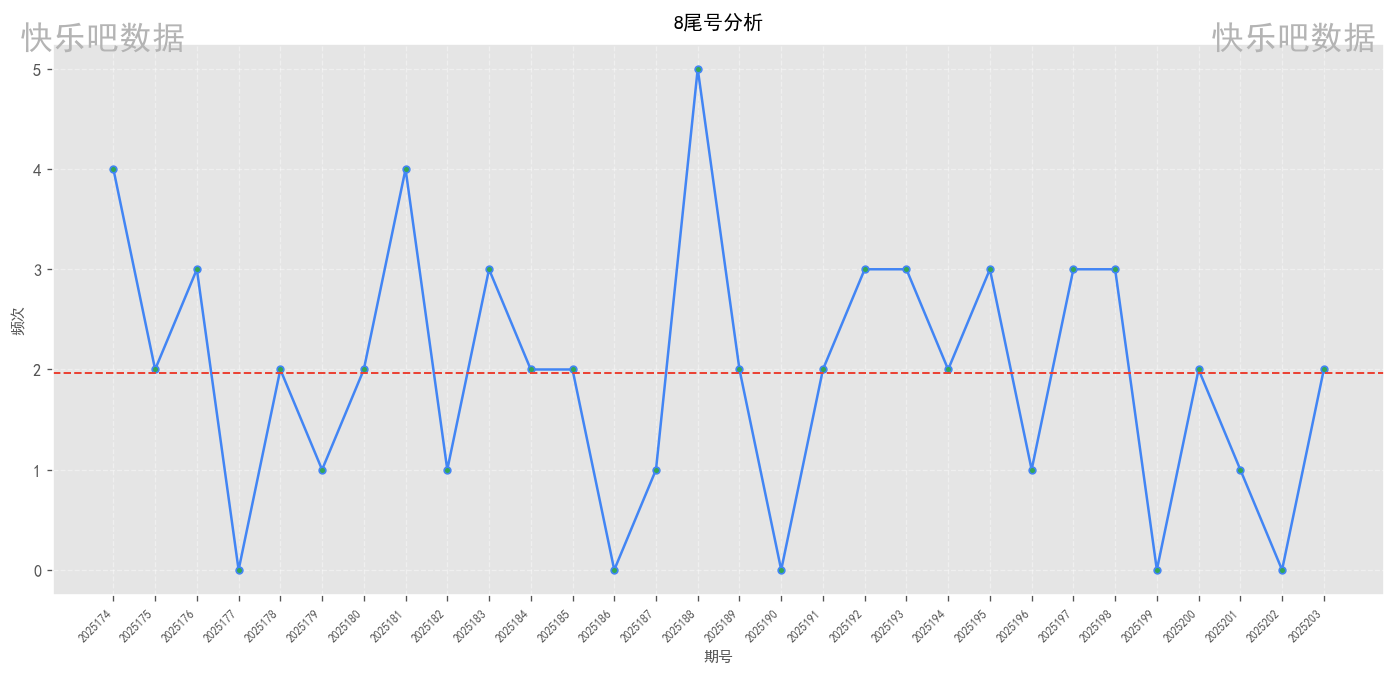
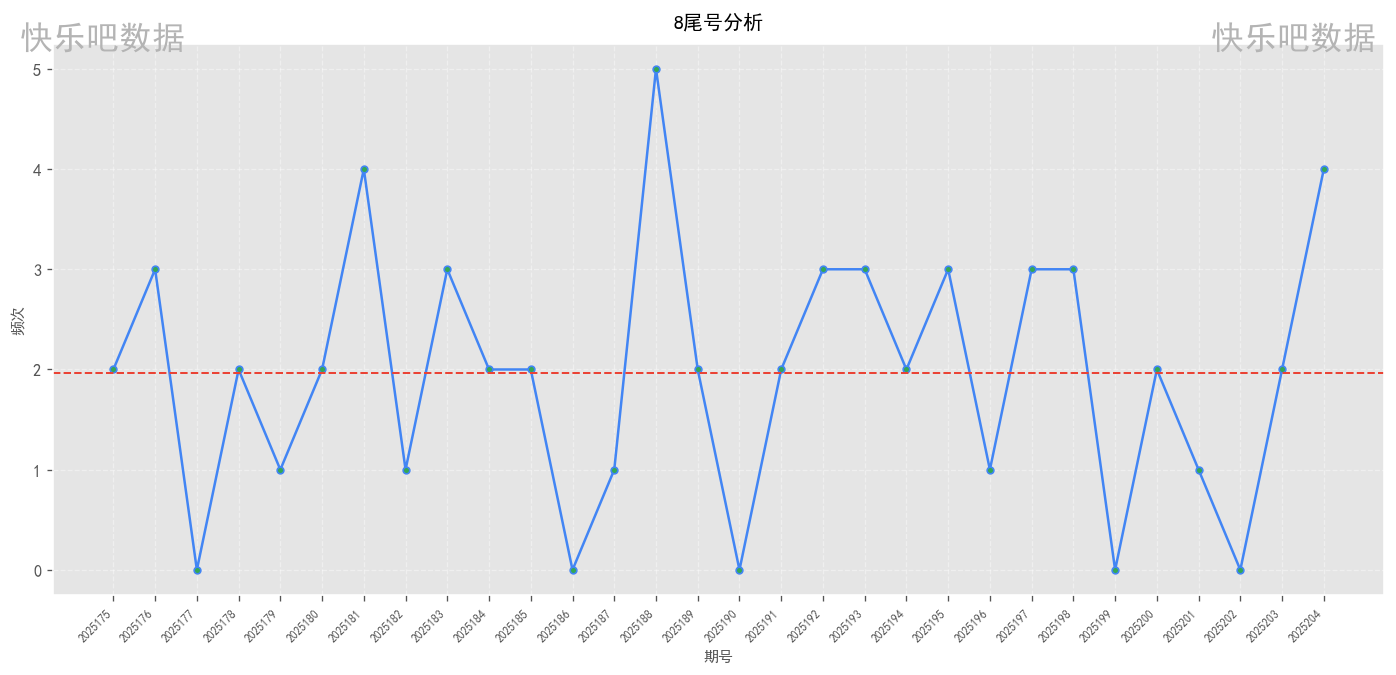
自动提交报告 20250802_2239

diff --git a/快乐8尾号分析项目/数据报告/20250802/report.html b/快乐8尾号分析项目/数据报告/20250802/report.html
@@ -440,7 +440,7 @@
                     <div class="label">尾号区间</div>
                 </div>
                 <div class="overview-card">
-                    <div class="value">2025203</div>
+                    <div class="value">2025204</div>
                     <div class="label">最新期号</div>
                 </div>
                 <div class="overview-card">
@@ -468,7 +468,7 @@
                 </div>
                 <div class="stat-item">
                     <span class="stat-label">近期平均</span>
-                    <span class="stat-value">2.40</span>
+                    <span class="stat-value">2.20</span>
                 </div>
                 <div class="stat-item">
                     <span class="stat-label">最高频次</span>
@@ -486,11 +486,11 @@
             <div class="stats-summary">
                 <div class="stat-item">
                     <span class="stat-label">历史平均</span>
-                    <span class="stat-value">2.07</span>
+                    <span class="stat-value">2.10</span>
                 </div>
                 <div class="stat-item">
                     <span class="stat-label">近期平均</span>
-                    <span class="stat-value">2.40</span>
+                    <span class="stat-value">2.20</span>
                 </div>
                 <div class="stat-item">
                     <span class="stat-label">最高频次</span>
@@ -508,7 +508,7 @@
             <div class="stats-summary">
                 <div class="stat-item">
                     <span class="stat-label">历史平均</span>
-                    <span class="stat-value">1.90</span>
+                    <span class="stat-value">1.93</span>
                 </div>
                 <div class="stat-item">
                     <span class="stat-label">近期平均</span>
@@ -530,11 +530,11 @@
             <div class="stats-summary">
                 <div class="stat-item">
                     <span class="stat-label">历史平均</span>
-                    <span class="stat-value">2.13</span>
+                    <span class="stat-value">2.17</span>
                 </div>
                 <div class="stat-item">
                     <span class="stat-label">近期平均</span>
-                    <span class="stat-value">2.80</span>
+                    <span class="stat-value">2.40</span>
                 </div>
                 <div class="stat-item">
                     <span class="stat-label">最高频次</span>
@@ -556,7 +556,7 @@
                 </div>
                 <div class="stat-item">
                     <span class="stat-label">近期平均</span>
-                    <span class="stat-value">2.20</span>
+                    <span class="stat-value">2.00</span>
                 </div>
                 <div class="stat-item">
                     <span class="stat-label">最高频次</span>
@@ -596,11 +596,11 @@
             <div class="stats-summary">
                 <div class="stat-item">
                     <span class="stat-label">历史平均</span>
-                    <span class="stat-value">2.17</span>
+                    <span class="stat-value">2.13</span>
                 </div>
                 <div class="stat-item">
                     <span class="stat-label">近期平均</span>
-                    <span class="stat-value">1.80</span>
+                    <span class="stat-value">1.60</span>
                 </div>
                 <div class="stat-item">
                     <span class="stat-label">最高频次</span>
@@ -622,7 +622,7 @@
                 </div>
                 <div class="stat-item">
                     <span class="stat-label">近期平均</span>
-                    <span class="stat-value">2.40</span>
+                    <span class="stat-value">2.80</span>
                 </div>
                 <div class="stat-item">
                     <span class="stat-label">最高频次</span>
@@ -644,7 +644,7 @@
                 </div>
                 <div class="stat-item">
                     <span class="stat-label">近期平均</span>
-                    <span class="stat-value">1.00</span>
+                    <span class="stat-value">1.80</span>
                 </div>
                 <div class="stat-item">
                     <span class="stat-label">最高频次</span>
@@ -662,7 +662,7 @@
             <div class="stats-summary">
                 <div class="stat-item">
                     <span class="stat-label">历史平均</span>
-                    <span class="stat-value">1.90</span>
+                    <span class="stat-value">1.83</span>
                 </div>
                 <div class="stat-item">
                     <span class="stat-label">近期平均</span>
@@ -690,7 +690,7 @@
         <div class="disclaimer">
             <div class="disclaimer-title"><i class="fas fa-exclamation-circle"></i> 法律声明</div>
             <p>本分析报告基于中国福利彩票官网公开数据制作，仅供历史数据分析与参考，严禁用于赌博或任何违法违规用途。</p>
-            <p>根据中国法律，禁止向未成年人传播彩票相关信息。数据统计周期: 2025174期-2025203期 | 生成时间: 2025-08-02 03:00</p>
+            <p>根据中国法律，禁止向未成年人传播彩票相关信息。数据统计周期: 2025175期-2025204期 | 生成时间: 2025-08-02 22:39</p>
         </div>
 
         <!-- 操作按钮 -->
